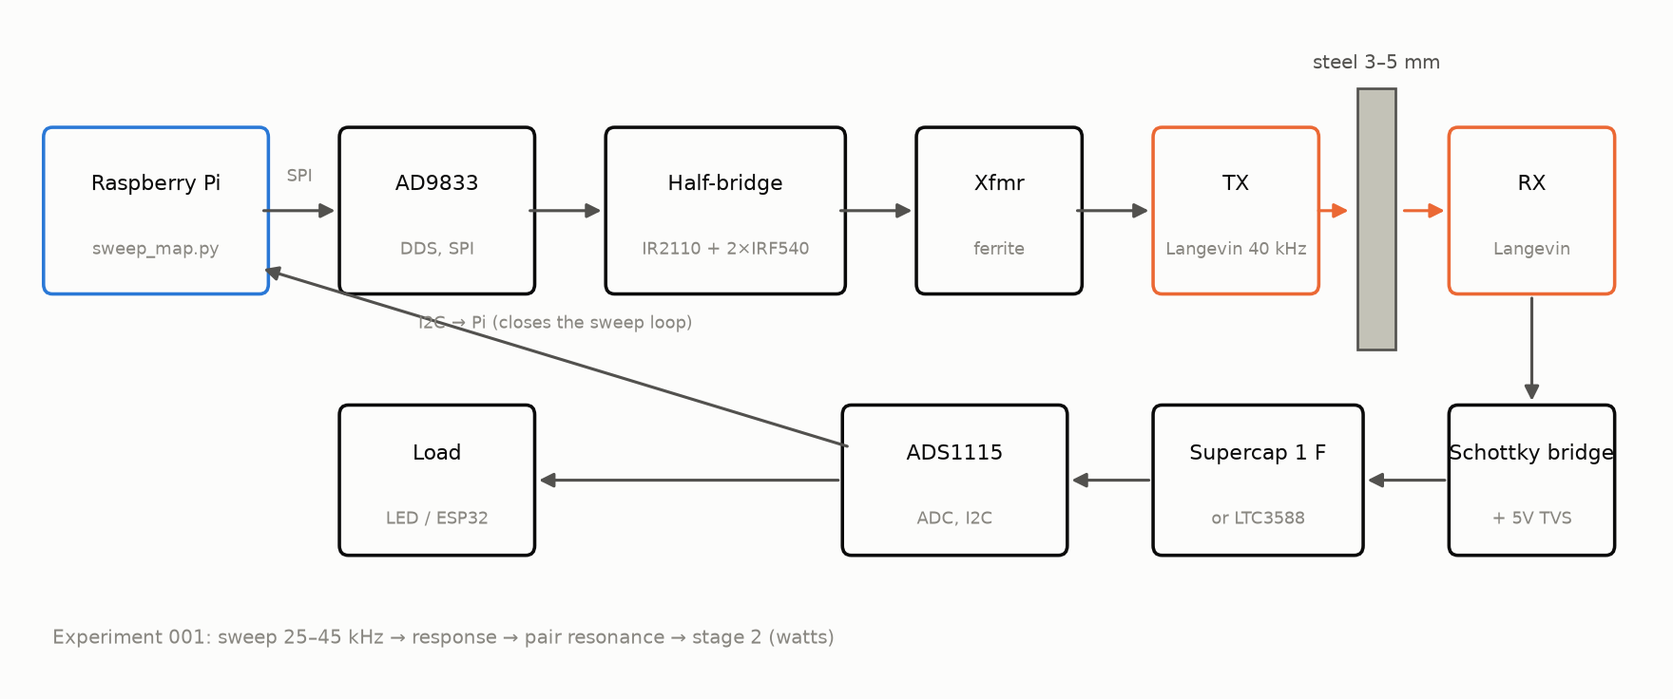
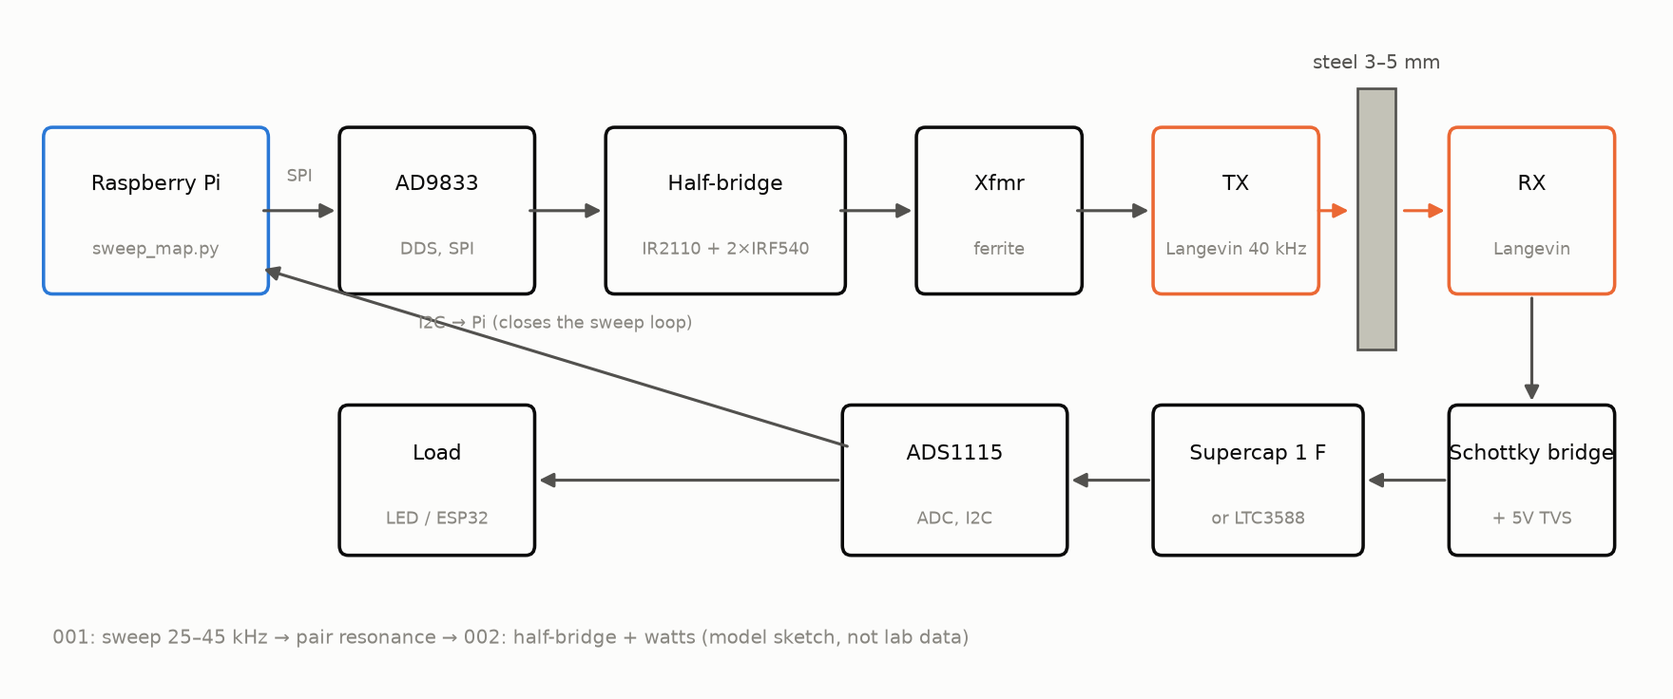
docs: separate stage 1/2 criteria and label simulator as model
Clarify English docs so lab literature, expectation plots, and garage
pass bars are not conflated; add experiment 002 watts protocol and
regenerate EN simulator figures with explicit assumptions.

Changed region(s): [[0.0312, 0.9062, 0.5938, 0.9375]]

diff --git a/software/simulator/channel_sim.py b/software/simulator/channel_sim.py
@@ -3,11 +3,14 @@
 """
 channel_sim.py — semi-empirical simulator of the through-wall acoustic channel.
 
-Not CAD and not FEM: a model for intuition — "what the sweep will show and what
-to expect". Physics inside:
-  Mode A (40 kHz): a Langevin pair = two Lorentzian resonances (Q~40 loaded),
-  channel ∝ |H_tx·H_rx| · k_contact. A 3-5 mm plate ≪ λ (148 mm) — a
-  transparent membrane.
+Not CAD, not FEM, and not lab data: a model for intuition — "what the sweep
+should look like and what to aim at". Replace assumed constants with measured
+values after experiments 001/002.
+
+Physics inside:
+  Mode A (40 kHz): a Langevin pair = two Lorentzian resonances (Q~40 loaded,
+  assumed), channel ∝ |H_tx·H_rx| · k_contact. A 3-5 mm plate ≪ λ (148 mm) —
+  a transparent membrane. Contact k and chain η_max are placeholders.
   Mode B (MHz): a comb of plate thickness resonances (Fabry-Perot):
   T(f) = 1 / (1 + ((r - 1/r)/2 · sin(2πfd/v))²), r — impedance step.
 
@@ -62,11 +65,15 @@ def lorentz(f, f0, q):
 # ---------- Mode A ----------
 
 F = np.linspace(25e3, 45e3, 2000)
-Q_LOADED = 40
-F_TX, F_RX = 39.8e3, 40.4e3          # real spread of a cheap pair, ~0.6 kHz
+Q_LOADED = 40                         # assumed loaded Q; measure from sweep width
+F_TX, F_RX = 39.8e3, 40.4e3          # example cheap-pair spread ~0.6 kHz
 
 def chart_sweep(out, L):
-    """What sweep_map.py will show at stage 1 (drive ~1 Vpp, no amplifier)."""
+    """Expected stage-1 sweep shape (weak DDS drive, no half-bridge).
+
+    Contact multipliers are placeholders (grease:dry:gap = 1:0.25:0.02),
+    not calibrated measurements — experiment 001 bonus pass replaces them.
+    """
     contacts = [(L["sim1.contact.grease"], 1.00, S1),
                 (L["sim1.contact.dry"],    0.25, S2),
                 (L["sim1.contact.gap"],    0.02, S3)]
@@ -89,9 +96,14 @@ def chart_sweep(out, L):
     plt.close(fig)
 
 def chart_mismatch(out, L):
-    """Power into the load vs frequency for a mismatched resonance pair."""
+    """Model power into the load vs frequency for a mismatched resonance pair.
+
+    eff_max=0.40 is an optimistic chain ceiling (driver + match + contact +
+    transducers), not a measured efficiency. Peak ratios vs Δf are the lesson;
+    absolute watts are stage-2 targets until experiment 002 lands.
+    """
     fig, ax = plt.subplots(figsize=(9, 5))
-    p_drive, eff_max = 10.0, 0.40      # watts of drive, max chain efficiency
+    p_drive, eff_max = 10.0, 0.40      # drive watts; assumed max chain efficiency
     for df, color, label in [(0.0, S1, L["sim2.match"]),
                              (700.0, S2, L["sim2.typ"]),
                              (1500.0, S3, L["sim2.bad"])]:
@@ -193,6 +205,7 @@ def chart_power_budget(out, L):
     ax.set_xlim(1e-5, 20)
     # expected received-power windows
     ax.set_ylim(-0.6, 6.9)
+    # Target received-power bands (not measured). Mode A lower edge = stage-2 gate.
     ax.axvspan(0.1, 0.5, color=S3, alpha=0.12)
     ax.axvspan(0.5, 5.0, color=S2, alpha=0.12)
     ax.text(0.22, 6.05, L["sim4.modeB"], color=S3, fontsize=9, ha="center")

diff --git a/README.md b/README.md
@@ -14,14 +14,14 @@ Docs are multilingual: English is primary and lives at the canonical paths; ever
 
 ## The idea in one paragraph
 
-Radio waves don't pass through metal (Faraday cage), and a cable penetration means a hole, a seal, and a point of failure. Ultrasound, on the other hand, travels through metal just fine: a piezo element on each side of the wall turns it into a channel for power (watts through 3–5 mm of steel) and data (kbit/s). The physics is proven (RPI: 50 W + 12 Mbit/s through 63 mm of steel; NASA JPL: ~kW through 5 mm of titanium), the foundational patents have expired, and no open platform exists — this repository is building one.
+Radio waves don't pass through metal (Faraday cage), and a cable penetration means a hole, a seal, and a point of failure. Ultrasound, on the other hand, travels through metal just fine: a piezo element on each side of the wall turns it into a channel for power and data. Lab literature already proved the physics at serious levels (RPI: 50 W + 12 Mbit/s through 63.5 mm of steel; NASA JPL: up to ~kW through 5 mm of titanium) — those are existence proofs with specialized hardware, not this repo's garage BOM. The foundational patents have expired, and no open, reproducible platform exists yet — this repository is building one, starting at **watts-class power and kbit/s data through 3–5 mm steel** once stage 2 is measured.
 
 ## Roadmap
 
 | Stage | Deliverable | Success criterion | Expectation |
 |---|---|---|---|
 | 1. Sweep map | frequency response of the "Langevin–3 mm steel–Langevin" channel | pair resonance found, plot in [experiments/001](experiments/001-sweep-map-3mm-steel/README.md) | [sim1](docs/img/sim1-sweep-contacts.png), [sim2](docs/img/sim2-pair-mismatch.png) |
-| 2. Watts | power into the load at resonance | ≥0.5 W through 3 mm of steel | [sim4](docs/img/sim4-power-budget.png) |
+| 2. Watts | power into the load at resonance | ≥0.5 W through 3 mm of steel, protocol in [experiments/002](experiments/002-watts-3mm-steel/README.md) | [sim4](docs/img/sim4-power-budget.png) |
 | 3. Data | FSK/OOK over the same pair | ≥1 kbit/s error-free | [sim5](docs/img/sim5-ook-datarate.png) |
 | 4. Node | ESP32 + sensor in a welded-shut box, powered and telemetered by sound alone | ≥1 h of autonomous operation | [sim4](docs/img/sim4-power-budget.png) |
 | 5. Publication | repo goes public, article/how-to | reproduction by a third party | — |
@@ -43,7 +43,7 @@ Every block below expands: inside is a digest sufficient to work from, plus a li
 python3 software/sweep-map/sweep_map.py --mock
 ```
 
-**The rig counts as working when:** (1) the sweep peak reproduces across two runs to within <200 Hz; (2) ≥0.5 W in the load through 3 mm of steel; (3) the LED behind the plate lights up, photo in experiments/001.
+**Done when (by stage):** stage 1 — sweep peak reproduces across two runs to within <200 Hz ([experiments/001](experiments/001-sweep-map-3mm-steel/README.md)); stage 2 — ≥0.5 W into a known load through 3 mm of steel and an LED lit from the RX side ([experiments/002](experiments/002-watts-3mm-steel/README.md)).
 
 </details>
 
@@ -66,21 +66,21 @@ The main losses: resonance mismatch within the pair (±1 kHz for cheap Langevin 
 <details>
 <summary><b>📈 What the rig should show: expectation plots from the simulator</b> — <a href="software/simulator/channel_sim.py">software/simulator/channel_sim.py</a></summary>
 
-A semi-empirical channel model (not FEM — intuition for "what the sweep will show and what to count on"). Regenerate with: `python3 channel_sim.py --out ../../docs/img`.
+A semi-empirical channel model (not FEM, **not lab data** — intuition for "what the sweep should look like and what to aim at"). Assumptions are explicit in `channel_sim.py` (loaded Q≈40, contact k-factors, chain η≤40%). Regenerate with: `python3 channel_sim.py --out ../../docs/img`.
 
-**Stage 1 — sweep.** A narrow peak near ~40 kHz; grease couplant + clamp gives ~4× dry pressure and ~50× an air gap. No peak means a problem with the contact or the pair:
+**Stage 1 — sweep.** A narrow peak near ~40 kHz; the model’s placeholder contact multipliers are grease:dry:gap = 1 : 0.25 : 0.02 (i.e. grease ≈4× dry and ≈50× air gap). No peak means a problem with the contact or the pair:
 
 <img src="docs/img/sim1-sweep-contacts.png" width="720">
 
-**Why 4 Langevin transducers, not 2.** A 1.5 kHz resonance mismatch within the pair drops the power 10-fold:
+**Why 4 Langevin transducers, not 2.** Under Q≈40, a 1.5 kHz resonance mismatch within the pair drops model power ~10×:
 
 <img src="docs/img/sim2-pair-mismatch.png" width="720">
 
-**Stage 3 — data.** OOK runs into resonator ringing (Q~40 → τ≈0.3 ms): 1 kbit/s is clean, at 5 kbit/s the eye is closed. Going faster takes mode B:
+**Stage 3 — data.** OOK runs into resonator ringing (model Q~40 → τ≈0.3 ms): 1 kbit/s is clean, at 5 kbit/s the eye is closed. Going faster takes mode B:
 
 <img src="docs/img/sim5-ook-datarate.png" width="720">
 
-**Receiver power budget.** Mode A feeds everything up to Wi-Fi peaks; mode B feeds an ESP32 with a supercapacitor buffer:
+**Receiver power budget.** Shaded bands are **targets** (mode A 0.5–5 W if stage 2 lands; mode B lower). Realistic first loads are duty-cycled ESP32 / BLE / LED; Wi-Fi is shown as a peak-draw marker, not a continuous promise:
 
 <img src="docs/img/sim4-power-budget.png" width="720">
 
@@ -93,13 +93,13 @@ A semi-empirical channel model (not FEM — intuition for "what the sweep will s
 <details>
 <summary><b>⚠ Safety — read before first power-up</b> — <a href="docs/02-safety.md">docs/02-safety.md</a></summary>
 
-1. **Hundreds of volts on the piezo** at resonance — the TVS on the receive side goes in BEFORE the first power-up; keep your hands off the leads.
+1. **Tens to hundreds of volts on the piezo** once the stage-2 driver is online — the TVS on the receive side goes in BEFORE the first powered run; keep your hands off the leads.
 2. **Mains** — only through a bench power supply / isolation; ultrasonic-cleaner driver boards are galvanically tied to the mains.
-3. **Ears** — operate transducers only when pressed against metal; never run high-power airborne ultrasound without an enclosure.
-4. **Heat** — an unclamped Langevin transducer overheats in minutes; check the clamping before applying power.
+3. **Ears** — at non-trivial power, operate transducers pressed against metal; never run high-power airborne ultrasound without an enclosure.
+4. **Heat** — an unclamped Langevin transducer overheats in minutes at power; clamp before raising current (brief low-current electrical bring-up only — see driver README).
 5. **Shards** — piezoceramic is brittle: an overtightened bolt or an impact means shards; wear safety glasses for any mechanical work.
 
-First driver power-up: set the bench supply current limit to 0.2 A.
+First driver power-up: bench supply current limit 0.2 A; full sequence in [hardware/driver/](hardware/driver/README.md) and [docs/02-safety.md](docs/02-safety.md).
 
 </details>
 

diff --git a/docs/00-theory.md b/docs/00-theory.md
@@ -17,8 +17,8 @@ Longitudinal speed of sound in steel: ~5900 m/s.
 Wavelength in steel: 148 mm @ 40 kHz; 5.9 mm @ 1 MHz.
 
 ## Two modes
-- **A (40 kHz, Langevin transducers).** A 3–5 mm plate ≪ λ — it behaves as a membrane; the resonance is set by the transducer pair, not by the wall. The NASA JPL regime (~24.5 kHz, hundreds of W up to a kW through 5 mm Ti). Simpler, more powerful, the one to start with.
-- **B (0.6–1 MHz, discs).** Thickness resonance of the wall itself, and a sharp one (a ~6% frequency shift ⇒ efficiency drops ~10×). The RPI/Moss regime: hundreds of mW plus data at hundreds of kbit/s. Requires automatic frequency tracking.
+- **A (40 kHz, Langevin transducers).** A 3–5 mm plate ≪ λ — it behaves as a membrane; the resonance is set by the transducer pair, not by the wall. Simpler and more powerful than mode B — the one to start with. Lab existence proof (not a garage target): NASA JPL ~24.5 kHz, hundreds of W up to a kW through 5 mm Ti with purpose-built hardware.
+- **B (0.6–1 MHz, discs).** Thickness resonance of the wall itself, and a sharp one (a ~6% frequency shift ⇒ transmission drops ~10× in the Fabry–Perot model). The RPI/Moss class of results: hundreds of mW plus data at hundreds of kbit/s under lab bonding and matching. Requires automatic frequency tracking.
 
 ## Main losses
 Resonance mismatch within the transducer pair (cheap Langevin transducers spread ±1 kHz), quality of the acoustic contact (epoxy > thick grease couplant + clamp > dry pressure), misalignment, resonance drift with temperature. The answer to all of it is the same: run a sweep map before every change to the setup.
@@ -27,7 +27,7 @@ Resonance mismatch within the transducer pair (cheap Langevin transducers spread
 
 Short version: at platform power levels the wall and any gas behind it are untouched. A liquid behind the wall mostly affects *the channel*; the channel only starts affecting *the liquid* near the cavitation threshold. Ballpark numbers below are for mode A: 40 kHz, ~1 W/cm² into 3 mm steel.
 
-**Wall — no deformation, no fatigue, ever.** Particle velocity v = √(2I/ρc) ≈ 21 mm/s ⇒ displacement ≈ 80 nm, strain ≈ 3.5·10⁻⁶, stress ≈ 0.7 MPa. Steel yields at 250+ MPa and its fatigue endurance limit is ~200 MPa — a >300× margin, and below the endurance limit steel takes unlimited cycles. The mechanically fragile parts are elsewhere: the piezo ceramic (brittle, depoles when overheated) and the bond line (epoxy heats up and fatigues first) — see [02-safety](02-safety.md).
+**Wall — no deformation, no fatigue, ever.** Particle velocity v = √(2I/ρc) ≈ 21 mm/s ⇒ displacement ≈ 80 nm, plane-wave strain ε = v/c ≈ 3.5·10⁻⁶. Two equivalent stress ballparks: elastic E·ε ≈ 0.7 MPa (E ≈ 200 GPa) and acoustic p = Z·v ≈ 1.0 MPa (Z_steel ≈ 4.6·10⁷ Pa·s/m). Steel yields at 250+ MPa and its fatigue endurance limit is ~200 MPa — still a >200× margin either way, and below the endurance limit steel takes unlimited cycles. The mechanically fragile parts are elsewhere: the piezo ceramic (brittle, depoles when overheated) and the bond line (epoxy heats up and fatigues first) — see [02-safety](02-safety.md).
 
 **Gas behind the wall — zero effect.** The steel→air impedance mismatch (~4.6·10⁷ vs ~400 Pa·s/m) transmits a fraction of order 10⁻⁵ of the power. No measurable heating or agitation; electronics inside a sealed box don't notice nm-scale wall motion.
 
@@ -37,4 +37,4 @@ Short version: at platform power levels the wall and any gas behind it are untou
 - *Channel → liquid (only at high power).* Peak pressure radiated into water: p ≈ ρc·v ≈ 1.5 MRayl × 21 mm/s ≈ 30 kPa ≈ 0.3 atm. The inertial-cavitation threshold at 40 kHz in ordinary (gassy) water is ~1–2 atm, so at 1 W/cm² the margin is 3–10×. But p grows as √power, and standing waves in a closed vessel create local hot spots — tens of W/cm² continuous into a liquid-filled tank can reach the threshold. Crossing it means CO₂ degassing, sonochemistry (off-flavors in food products), and long-term cavitation erosion of the inner surface (exactly how ultrasonic cleaners clean). Practical ceiling for continuous power into liquid-backed walls: **≲1 W/cm²**. Mode B is exempt: at MHz the threshold is an order of magnitude higher and the powers are hundreds of mW.
 
 ## Receiver power budget (ballpark)
-LED 20 mW; ESP32 duty-cycled 1–5 mW average; BLE packet ~150 mW peak — buffer: a 1 F supercapacitor @ 3.3 V = 5.4 J ≈ 360 transmissions.
+LED 20 mW; ESP32 duty-cycled 1–5 mW average; BLE radio ~150 mW while the radio is on. Buffer: a 1 F supercapacitor @ 3.3 V stores E = ½CV² = 5.4 J. How many transmissions that buys depends on on-air time: a short BLE advertising event (~2–5 ms at ~150 mW) is only ~0.3–0.8 mJ → on the order of **10⁴ packets** from a full cap; a long connection / burst (~100 ms radio-on) is ~15 mJ → on the order of **10² bursts**. Average draw still has to stay inside the harvested watts (stage-2 target ≥0.5 W into the load is the gate; until that is measured, treat multi-watt mode-A bands on the simulator plots as targets, not data).

diff --git a/hardware/driver/README.md b/hardware/driver/README.md
@@ -4,19 +4,23 @@
 
 **Schematic:** [../schematics/sch1-driver-halfbridge.png](../schematics/sch1-driver-halfbridge.png) (generated by [../schematics/render_schematics.py](../schematics/render_schematics.py))
 
-The chain: Pi (SPI) → AD9833 **in square-wave mode** (OPBITEN bit: MSB routed to the output, rail-to-rail swing — no separate comparator needed) → **74HC14 + RC + 1N4148** shaper (complementary HIN/LIN with ~1 µs dead time) → IR2110 → 2×IRF540 (half-bridge) → 1 µF DC-blocking cap → matching transformer (ferrite, ~1:3..1:5, tune to fit) → Langevin transducer TX.
+The chain: Pi (SPI) → AD9833 **in square-wave mode** (OPBITEN bit: MSB routed to the output, rail-to-rail swing — no separate comparator needed) → **74HC14 + RC + 1N4148** shaper (complementary HIN/LIN with ~1 µs dead time) → IR2110 → 2×IRF540 (half-bridge) → 1 µF DC-blocking cap → matching transformer (ferrite, ~1:3..1:5, tune on the bench) → Langevin transducer TX.
 
 The AD9833's sine output (~0.6 Vpp) is no good for the IR2110 logic — if for some reason you specifically need a sine out of the DDS, put a comparator between them (e.g. an LM393, not in the BOM).
 
-Power stage supply: 12–24 V bench PSU with current limiting (start at 0.2 A!).
+Power stage supply: 12–24 V bench PSU with current limiting (**start at 0.2 A**).
 
-Note: the stage-1 sweep drives the piezo directly with the weak DDS sine (~0.6 Vpp, see sweep_map.py) — the driver enters the chain at stage 2 (watts).
+Note: the stage-1 sweep drives the piezo directly with the weak DDS sine (~0.6 Vpp, see `sweep_map.py`) — **this driver enters the chain only at stage 2 (watts)**. Do not expect ≥0.5 W from the stage-1 DDS-only hookup.
 
 Notes:
-- The Langevin transducer is a capacitive load (nF); a series inductor/transformer is mandatory, otherwise the MOSFETs cook on reactive current.
+- The Langevin transducer is a capacitive load (typically a few nF). A series inductor or matching transformer is mandatory; without it the MOSFETs dissipate the reactive current and cook.
+- **Matching transformer (the usual failure point).** Start with a small ferrite toroid (e.g. FT50-43 / similar), primary a few turns, secondary ~3–5× that, series DC-block 1 µF film on the primary. Tune for minimum PSU current *at the stage-1 resonance* with the TX **clamped to the plate** and the RX loaded. Turns ratio and leakage are empirical — the schematic marks them `*` for a reason. Record final turns in the experiment log.
 - **Dead time**: the IR2110 does not generate it on its own. The discrete-parts option — RC+1N4148 on the 74HC14 inputs (delays rising edges only, ~1 µs; with a 25 µs period at 40 kHz that's <5% loss). The easy option — an EGS002 module, everything is built in there.
 - **3.3 V logic**: power the IR2110's VDD from the same 3.3 V as the AD9833 and 74HC14 — at VDD=5 V the VIH threshold is ≈ 3.1 V and a 3.3 V square wave barely squeaks through (the datasheet allows VDD down to 3.3 V).
-- **Decoupling is mandatory**: 100 nF at VDD and VCC (VCC — plus 47 µF), and on the power rail 470–1000 µF + 100 nF ceramic right at the half-bridge legs — without this, a half-bridge on breadboard jumpers picks up its own switching spikes.
-- First power-up: no plate, Langevin transducer in air, minimum power, check the waveform on a scope/ADC.
+- **Decoupling is mandatory**: 100 nF at VDD and VCC (VCC — plus 47 µF), and on the power rail 470–1000 µF + 100 nF ceramic right at the half-bridge legs — without this, a half-bridge on breadboard jumpers picks up its own switching spikes. Keep power-loop wires short; if the switch node rings badly, move off the breadboard to a copper-clad dead-bug / protoboard ground pour before raising current.
+- **First power-up sequence** (aligned with [docs/02-safety.md](../../docs/02-safety.md)):
+  1. No Langevin on the secondary yet. PSU = 12 V, current limit 0.2 A. Scope gate drive (HIN/LIN) and switch node — confirm dead time and no shoot-through.
+  2. Fit the matching transformer + TX Langevin **clamped to the steel plate** (or a thick sacrificial metal block). Still 0.2 A limit. Bring up at the stage-1 peak frequency only long enough to see current and RX voltage.
+  3. Raise the current limit gradually while watching MOSFET and transformer temperature. Never leave an unclamped Langevin at power — free-air full-power runs are how ceramics crack and drivers die.
 
-TODO: KiCad project (PCB) once the breadboard prototype checks out.
+TODO: KiCad project (PCB) once the breadboard (or dead-bug) prototype checks out. Until then the schematics in [`../schematics/`](../schematics/) are the design source of truth.

diff --git a/QUICKSTART.md b/QUICKSTART.md
@@ -51,17 +51,26 @@ Steel plate 3 mm ~150×150 — 2 pcs (metal yard / laser cutting); F-style clamp
 
 ## What you will see (simulator: software/simulator/channel_sim.py → docs/img)
 
-- `sim0-rig-sketch.png` — the whole rig in one sketch.
-- `sim1-sweep-contacts.png` — sweep frequency response: a narrow peak near ~40 kHz; grease + clamp gives ~4× more than a dry press-fit and ~50× more than an air gap. No peak — the problem is the contact or the pair, see sim2.
-- `sim2-pair-mismatch.png` — why 4 Langevin transducers and not 2: a 1.5 kHz resonance mismatch within a pair drops power 10×; the sweep picks the best pair out of 4.
+These PNGs are **model expectations**, not lab measurements. Contact ratios, loaded Q≈40, and chain efficiency ≤40% are explicit assumptions in `channel_sim.py` — replace them with sweep/power data once the rig exists.
+
+- `sim0-rig-sketch.png` — the whole rig in one sketch (stage 2 chain; stage 1 omits the half-bridge and drives the TX from the weak DDS sine).
+- `sim1-sweep-contacts.png` — expected sweep shape: a narrow peak near ~40 kHz; the model uses grease:dry:gap ≈ 1 : 0.25 : 0.02 as placeholders. No peak — debug contact or pair mismatch first (sim2).
+- `sim2-pair-mismatch.png` — why 4 Langevin transducers and not 2: with Q≈40, a 1.5 kHz resonance mismatch within a pair drops model power ~10×; the sweep picks the best pair out of 4.
 - `sim3-thickness-comb.png` — for later (mode B, MHz): the plate is transparent as a comb of thickness resonances, so the frequency has to be tracked.
-- `sim4-power-budget.png` — target watts versus the loads: mode A feeds everything up to Wi-Fi peaks, mode B feeds an ESP32 with a supercapacitor buffer.
-- `sim5-ook-datarate.png` — stage 3: why OOK on Langevin transducers tops out at ~1–2 kbit/s (resonator ring-down τ≈0.3 ms), and why that is fine for a sensor node.
+- `sim4-power-budget.png` — load draw vs **target** received-power bands. Mode A band (0.5–5 W) is the stage-2 ambition if matching and contact cooperate; mode B is the lower band. Continuous Wi-Fi is a peak-load marker, not a promise — duty-cycled ESP32/BLE/LED are the realistic first consumers.
+- `sim5-ook-datarate.png` — stage 3: why OOK on Langevin transducers tops out at ~1–2 kbit/s under Q≈40 (ring-down τ≈0.3 ms), and why that is fine for a sensor node.
 
 ## Criteria for "the rig works"
 
-1. Sweep 25–45 kHz in two consecutive runs: the peak reproduces to within <200 Hz.
-2. At resonance, ≥0.5 W into a resistive load through 3 mm of steel.
-3. The LED behind the plate is lit. Photo in experiments/001 — and the stage is closed.
+Split by stage — do not mark stage 1 done with stage 2 numbers.
 
-Safety before first power-up: docs/02-safety.md (TVS on the receiver, PSU current limit at 0.2 A, never drive a Langevin transducer without clamping pressure).
+**Stage 1 — sweep map** ([experiments/001](experiments/001-sweep-map-3mm-steel/README.md)):
+1. Sweep 25–45 kHz in two consecutive runs: the peak center reproduces to within <200 Hz.
+2. Optional bonus: grease+clamp vs dry press-on on the same pair (relative amplitudes, not absolute watts).
+
+**Stage 2 — first watts** ([experiments/002](experiments/002-watts-3mm-steel/README.md)):
+1. Half-bridge + matching transformer online; PSU current-limited bring-up per [docs/02-safety.md](docs/02-safety.md) and [hardware/driver/](hardware/driver/README.md).
+2. At the stage-1 resonance, ≥0.5 W into a known resistive load through 3 mm of steel (measure V and I on the DC side after the RX bridge).
+3. LED behind the plate lights from harvested power; photo + CSV in experiments/002.
+
+Safety before first power-up: [docs/02-safety.md](docs/02-safety.md) (TVS on the receiver, PSU current limit at 0.2 A for bring-up, no free-air high-power Langevin runs).

diff --git a/experiments/002-watts-3mm-steel/README.md b/experiments/002-watts-3mm-steel/README.md
@@ -1,0 +1,26 @@
+# Experiment 002: First Watts Through 3 mm Steel (PLANNED)
+
+> English (primary) · [Русский](../../translations/ru/experiments/002-watts-3mm-steel/README.md) · [Deutsch](../../translations/de/experiments/002-watts-3mm-steel/README.md) · [Português](../../translations/pt/experiments/002-watts-3mm-steel/README.md)
+
+- **Stage:** 2 (power into a known load at the resonance found in [001](../001-sweep-map-3mm-steel/README.md)).
+- **Goal:** measure real DC power delivered through 3 mm steel with the half-bridge driver and matching transformer.
+- **Hypothesis:** with a same-batch Langevin pair, grease+clamp (or epoxy) contact, and a tuned matching transformer, ≥0.5 W into a resistive load at the stage-1 peak is achievable. (Literature multi-watt/kW figures used different transducers and bonding — treat them as ceiling, not the pass bar.)
+- **Prerequisites:**
+  - Experiment 001 closed (reproducible peak, frequency recorded).
+  - TVS fitted on the RX chain before any driver power ([docs/02-safety.md](../../docs/02-safety.md)).
+  - Driver bring-up sequence followed ([hardware/driver/README.md](../../hardware/driver/README.md)).
+- **Setup (minimum):**
+  - TX: Pi → AD9833 square → dead-time shaper → IR2110 half-bridge → matching transformer → Langevin clamped to plate ([sch1](../../hardware/schematics/sch1-driver-halfbridge.png)).
+  - Wall: 3 mm steel, contact method recorded (grease+clamp / epoxy / other).
+  - RX: Langevin → Schottky bridge → known R_load (power resistor) and/or LED; measure V_dc and I_dc after the bridge ([sch2](../../hardware/schematics/sch2-receiver-stage1.png) topology, load instead of ADC-only).
+- **Procedure (outline):**
+  1. Electrical bring-up at 0.2 A PSU limit without claiming acoustic power.
+  2. Clamp TX/RX, set drive frequency to the experiment-001 peak.
+  3. Raise current limit slowly; log PSU V/I, MOSFET/transformer temperature, V_dc and I_dc on the load.
+  4. P_load = V_dc · I_dc. Optional: short LED demo photo once P_load is known.
+  5. Repeat once after a cool-down; peak frequency may drift with temperature — re-check with a mini-sweep if power falls off.
+- **Success criteria:**
+  1. P_load ≥ 0.5 W through 3 mm steel at a documented frequency and contact method.
+  2. Two runs agree on P_load within ~20% under the same clamp/couplant (order-of-magnitude stability, not metrology-grade yet).
+  3. Photo of LED (or other load) + CSV/log linked from this file under `data/`.
+- **Failure is data:** if P_load stays ≪ 0.5 W, log pair Δf (from 001), contact method, transformer turns, and waveforms — that is the input to the next ADR, not a reason to silently edit the simulator.

diff --git a/docs/02-safety.md b/docs/02-safety.md
@@ -2,8 +2,9 @@
 
 > English (primary) · [Русский](../translations/ru/docs/02-safety.md) · [Deutsch](../translations/de/docs/02-safety.md) · [Português](../translations/pt/docs/02-safety.md)
 
-1. **High voltage on the piezo.** At resonance the transducer terminals carry hundreds of volts. The TVS/Zener on the receive side goes in BEFORE the first power-up. Do not touch the terminals while it is running.
-2. **Mains.** Ultrasonic-cleaner drivers are galvanically coupled to the mains. Work only through a lab power supply / isolation transformer.
-3. **Ears.** Humans can't hear 40 kHz, but subharmonics — and animals — can. Work with the emitters pressed against metal, not radiating into air. Powerful airborne ultrasound — never switch it on without an enclosure.
-4. **Heating.** A Langevin transducer running unloaded (not pressed against anything) overheats within minutes at full power. Always check the contact pressure before applying power.
+1. **High voltage on the piezo.** At resonance the transducer terminals carry tens to hundreds of volts once the stage-2 driver is online. The TVS/Zener on the receive side goes in BEFORE the first powered run. Do not touch the terminals while it is running.
+2. **Mains.** Ultrasonic-cleaner drivers are galvanically coupled to the mains. Work only through a lab power supply / isolation transformer. This project's half-bridge is meant to run from a current-limited bench PSU, not from a mains-tied cleaner board.
+3. **Ears.** Humans can't hear 40 kHz, but subharmonics — and animals — can. For any non-trivial power, work with the emitters pressed against metal, not radiating into air. Powerful airborne ultrasound — never switch it on without an enclosure.
+4. **Heating.** A Langevin transducer running unloaded (not pressed against anything) overheats within minutes at full power. **Default rule:** clamp to the plate (or a sacrificial block) before raising power. The only intentional exception is a **brief, low-current electrical bring-up** of the half-bridge (PSU limited to ~0.2 A, seconds not minutes, scope on the switch node) described in [hardware/driver/](../hardware/driver/README.md) — still not a free-air power run.
 5. **Shrapnel.** Piezoceramic is brittle; an overtightened Langevin bolt or an impact = fragments. Safety glasses during mechanical work.
+6. **Stage 1 vs stage 2.** The stage-1 sweep drives the TX from the weak AD9833 sine (~0.6 Vpp) and is electrically gentle; almost all of the hazards above become real when the IR2110 half-bridge and matching transformer come online for watts.

diff --git a/experiments/001-sweep-map-3mm-steel/README.md b/experiments/001-sweep-map-3mm-steel/README.md
@@ -2,8 +2,11 @@
 
 > English (primary) · [Русский](../../translations/ru/experiments/001-sweep-map-3mm-steel/README.md) · [Deutsch](../../translations/de/experiments/001-sweep-map-3mm-steel/README.md) · [Português](../../translations/pt/experiments/001-sweep-map-3mm-steel/README.md)
 
-- Goal: find the resonance of a Langevin transducer pair through a 3 mm plate; get the first frequency response of the channel.
-- Hypothesis: a peak around 38-42 kHz (Langevin transducer resonance), peak width of a few kHz.
-- Procedure: software/sweep-map/sweep_map.py --start 25000 --stop 45000 --step 50
-- Success criterion: a reproducible peak (two sweeps back to back, center deviation <200 Hz).
-- Bonus measurement: the same sweep with "grease couplant + clamp" contact vs "dry press-on" — the first pair of data points that exist nowhere in the open literature.
+- **Stage:** 1 (frequency map only — no watt target here; power is [002](../002-watts-3mm-steel/README.md)).
+- **Goal:** find the resonance of a Langevin transducer pair through a 3 mm plate; get the first frequency response of the channel.
+- **Hypothesis:** a peak around 38–42 kHz (Langevin transducer resonance), peak width of a few kHz under grease+clamp contact.
+- **Drive:** stage-1 hookup — AD9833 sine (~0.6 Vpp) into TX, **no** half-bridge ([sch3](../../hardware/schematics/sch3-stage1-wiring.png), [sch2](../../hardware/schematics/sch2-receiver-stage1.png)).
+- **Procedure:** `python3 software/sweep-map/sweep_map.py --start 25000 --stop 45000 --step 50` (use `--mock` to dry-run the pipeline without hardware).
+- **Success criterion:** a reproducible peak (two sweeps back to back, center deviation <200 Hz). Save CSV/PNG under `data/` and link them from this file when real.
+- **Bonus measurement:** the same sweep with "grease couplant + clamp" vs "dry press-on" — relative amplitudes only; absolute volts depend on drive level and are not comparable to the simulator’s placeholder scale until calibrated.
+- **Out of scope:** ≥0.5 W, LED-from-harvest, half-bridge bring-up → experiment 002.

diff --git a/hardware/receiver/README.md b/hardware/receiver/README.md
@@ -2,10 +2,10 @@
 
 > English (primary) · [Русский](../../translations/ru/hardware/receiver/README.md) · [Deutsch](../../translations/de/hardware/receiver/README.md) · [Português](../../translations/pt/hardware/receiver/README.md)
 
-Schematics: [stage 1 — sch2](../schematics/sch2-receiver-stage1.png) · [stage 4 — sch4](../schematics/sch4-receiver-node.png) (generated by [../../schematics/render_schematics.py](../../../../hardware/schematics/render_schematics.py))
+Schematics: [stage 1 — sch2](../schematics/sch2-receiver-stage1.png) · [stage 4 — sch4](../schematics/sch4-receiver-node.png) (generated by [../schematics/render_schematics.py](../schematics/render_schematics.py))
 
 - Stage 1 (measurements): Langevin transducer RX (both leads floating — do not ground!) → Schottky bridge (4×SS14) → RC filter (10k || 100n) → 5 V TVS → **47 kΩ in series** → ADS1115 A0 (the resistor limits current into the ADC's protection diodes: the TVS clamps ~9 V above the input's abs. max).
-- Stage 2 (watts): RX → the same bridge → electronic/resistive load, measure V and I.
+- Stage 2 (watts): RX → the same bridge → known resistive load (and/or LED), measure DC V and I after the bridge; power is V·I into that load. Protocol: [experiments/002](../../experiments/002-watts-3mm-steel/README.md).
 - Stage 4 (node): RX → GY-LTC3588 **straight into PZ1/PZ2** (the bridge is built into the LTC3588-1, no external one needed) → 1 F supercapacitor → ESP32 (deep sleep + duty cycle). Load modulation — 2N7002 + 100 Ω on the **DC side** (the module's VIN pin, see sch4); a single MOSFET across the AC piezo does not work — the body diode shunts one half-wave (docs/03).
 
 IMPORTANT: fit the TVS before the very first power-up — an open piezo at resonance puts out tens to hundreds of volts. On the DC side after the bridge — a unidirectional SMBJ5.0A; across the node's piezo (AC) — only a bidirectional SMBJ15CA.

diff --git a/docs/01-prior-art.md b/docs/01-prior-art.md
@@ -20,5 +20,7 @@ Every technical decision in this repo must be traceable to a source from the "fr
 - Yang et al., Sensors 2015 (10.3390/s151229870) — review, the best summary of the numbers.
 - Ji et al., Phys. Rev. Applied 21, 014059 (2024) — metamaterial, 2%→66% through 1 mm stainless (no patent found as of 07.2026).
 
+These papers are the **physics and patent-hygiene baseline**. Their power/bitrate numbers used lab transducers, bonding, and matching — not the AliExpress Langevin + grease BOM in [QUICKSTART.md](../QUICKSTART.md). Cite them as existence proofs; the project's own pass bars live in [experiments/](../experiments/).
+
 ## What we don't copy while it's alive (US-only, until ~2032; stages 1–4 don't need it anyway)
 OFDM with subcarriers placed to dodge the power channel's harmonics (RPI US9054826); full-duplex "AM downlink + load-modulation uplink + frequency tracking" as a single scheme (RPI US9455791); conformal transducers for curved surfaces per the Drexel approach (US10594409).

diff --git a/docs/decisions/0001-vybor-chastotnogo-rezhima.md b/docs/decisions/0001-vybor-chastotnogo-rezhima.md
@@ -13,3 +13,5 @@ Stages 1–2 run mode A. Reasons: cheaper ($10–30 apiece), more powerful (watt
 
 ## Consequences
 Data at Stage 3 will be slow (kbit/s) — enough for a sensor node. The ADS1115 ADC (860 SPS) is fine for the envelope at 40 kHz after the rectifier, but not for direct sampling — direct sampling is deferred to mode B (needs a different ADC).
+
+Stage 1 (sweep) uses the weak DDS drive only; stage 2 (watts) is a separate experiment and bring-up ([experiments/002](../../experiments/002-watts-3mm-steel/README.md)). Simulator power bands remain targets until 002 is measured.
